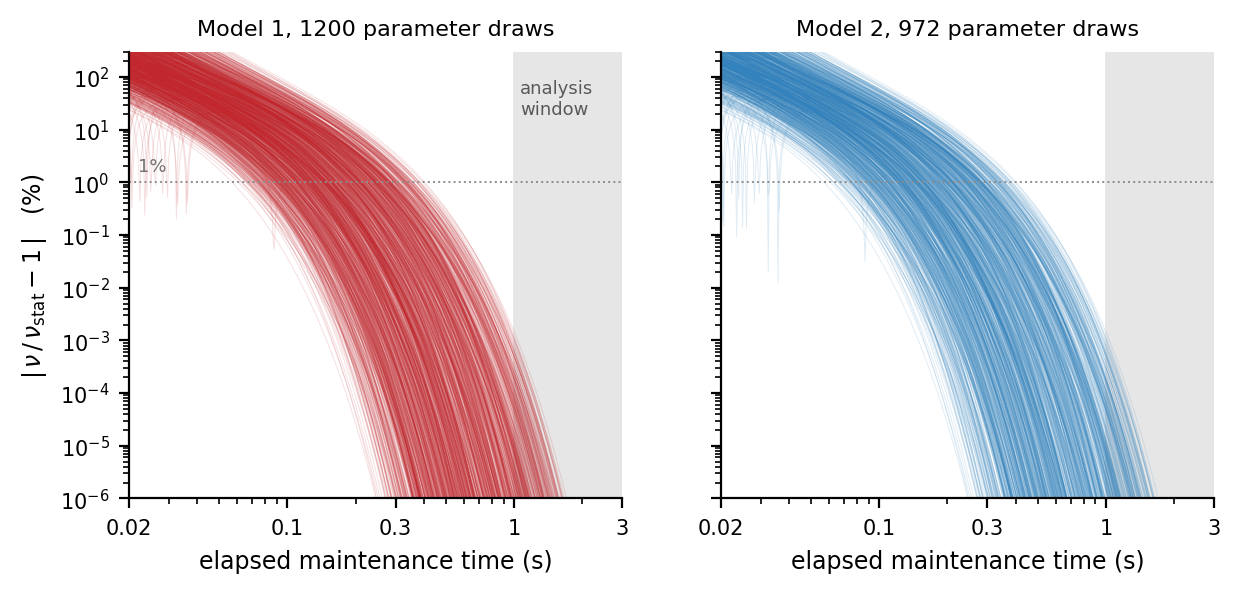
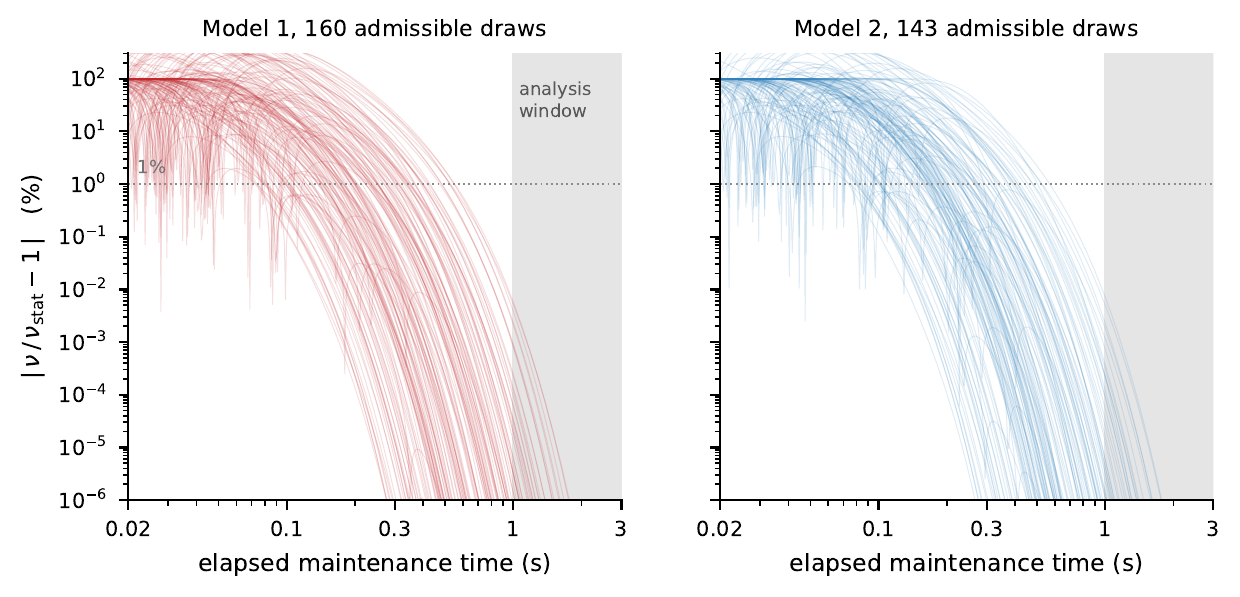
Fix the stationary-approximation figure, and prove the error bound it illustrates
scripts/mkfig.py computed the moments with s2 = 1/(2*kappa), which hard-codes
sigma_eps = 1 instead of using each draw's sampled SD_eps. Over the sampled
range that inflates sigma_H by one to two orders of magnitude and deflates the
standardized distance to the gate by the same factor - and the rate depends on
that distance through a Gaussian, so the error is amplified by a factor of
order a^2. The figure therefore understated the approximation error by four
orders of magnitude.

Corrected, and restricted to the admissible draws, which is where the model is
used: the largest departure inside the window is 6.8e-3 %, not 1.4e-3 %. The
conclusion is unchanged - on a delay rate of 0.7 s^-1 across a 2 s window,
7e-5 relative is a spurious trend of 2e-5 s^-2, against Model 1's largest
simulated trend of +0.007 and an observed +0.560. Over the whole sampled box
the departure reaches a per cent, on draws whose standardized distance to the
gate is 30 or more and whose rate is far too small to be measured at all;
admissibility caps that distance.

New Corollary A.2, after the stationary rate, states and proves the bound the
figure illustrates: with epsilon the largest of |u|, |v| and |X| sqrt(lambda/kappa),
|ln(nu/nu_stat)| <= (a+2)^2 epsilon. The proof is six lines - a log split into
three factors, plus the mean value theorem on the bracket, using that its two
partials are Phi <= 1 and phi <= phi(0) and that the bracket is at least
[…]

diff --git a/manuscript/latex/delay.tex b/manuscript/latex/delay.tex
@@ -726,7 +726,7 @@ In conclusion, delayed decision reports are not generated by storing an abstract
 
 \begin{center}\includegraphics[width=\linewidth]{figures/fig09.png}\end{center}
 
-\captionof{figure}{\new{\textbf{Error of the stationary approximation, over the whole sampled parameter domain.} Each thin line is one of the 1200 sampled parameter vectors: the relative difference between the exact partial-activation rate, Equation~\eqref{eq:nu2} with the transient moments of Equation~\eqref{eq:moments}, and its stationary form, Equation~\eqref{eq:nu_asymp}, as a function of elapsed maintenance time. Both axes are logarithmic and the shaded band is the delay analysis window, which begins at least 1 s after maintenance onset. Left, Model 1; right, Model 2, restricted to the vectors at which temporal preparation does not carry the signal past the gate within the window. Inside the window the largest departure anywhere in the domain is $1.4\times10^{-3}$\%, so every statement made at the stationary moments is exact for practical purposes on the window the data are analysed in.}}\label{fig:approx}
+\captionof{figure}{\new{\textbf{Error of the stationary approximation, over the admissible draws.} Each thin line is one admissible parameter vector: the relative difference between the exact partial-activation rate, Equation~\eqref{eq:nu2} with the transient moments of Equation~\eqref{eq:moments}, and its stationary form, Equation~\eqref{eq:nu_asymp}, as a function of elapsed maintenance time. Both axes are logarithmic and the shaded band is the delay analysis window, which begins at least 1 s after maintenance onset. Left, Model 1; right, Model 2, restricted to the vectors at which temporal preparation does not carry the signal past the gate within the window. Inside the window the largest departure is $6.8\times10^{-3}$\%, so every statement made at the stationary moments is exact for practical purposes on the window the data are analysed in. The draws shown are the admissible ones, which is where the model is used: over the whole sampled box the departure reaches a per cent, on vectors whose standardized distance to the gate is 30 or more and whose rate is accordingly unmeasurable (Appendix, Corollary~\ref{cor:approx}).}}\label{fig:approx}
 
 
 \section{Tables}
@@ -771,13 +771,14 @@ In conclusion, delayed decision reports are not generated by storing an abstract
 \end{center}
 \new{Note. The ranges are those sampled in the parameter-space evaluation, and their provenance is given there (Materials and Methods, Evaluation over the parameter space); entries without a range were held fixed. RS: response signal.}
 
-
-\section{\new{Appendix. The rate of partial muscle activations}}
-
 {\color{addcol}
+
+\section{Appendix. The rate of partial muscle activations}
+
 This appendix derives the instantaneous rate at which the maintained motor-preparatory signal crosses the gate upward, which is a partial muscle activation, and the properties of that rate which the Results test.
 
-\textbf{\emph{Setup and notation}}
+
+\subsection{Setup and notation}
 
 Notation follows Theory (Materials and Methods) and Table~\ref{tab:params}; $\varphi$ and $\Phi$ are the standard normal density and distribution function. Fix a trial that has entered maintenance at time $\tau $ with selected response ${s}_{\mathrm{resp}}$ and maintained level $m$ (Equation~\eqref{eq:m}), and write $\rho :=t-\tau $ for elapsed maintenance time. For $t\ge \tau $ let $y\left(t\right)=m+H\left(t\right)$, so that $H$ is the fluctuation of the motor-preparatory signal about the level it maintains. By Equations~\eqref{eq:epsilon} and~\eqref{eq:y_delay},
 
@@ -800,7 +801,7 @@ d\left(t\right)=g-\left|m\right|-\frac{\beta }{\delta }{\left(t-{t}_{\mathrm{off
 
 (the second term present only under temporal preparation, so that $\beta =0$ under Model 1), a partial activation on the selected channel begins exactly when ${s}_{\mathrm{resp}}H$ crosses $d\left(t\right)$ upward. Temporal preparation therefore carries the signal toward the gate at the constant speed $\beta /\delta$. The non-selected channel activates when ${s}_{\mathrm{resp}}H$ falls below the corresponding distance on the far side, which is several fluctuation standard deviations further away over the whole admissible space; the model predicts that channel to be silent, as it is observed to be, and it is not considered further.
 
-\textbf{\emph{The maintained fluctuation}}
+\subsection{The maintained fluctuation}
 
 Solving Equation~\eqref{eq:H} gives
 
@@ -862,7 +863,7 @@ and so does the third: applying the mean value theorem to $z\mapsto {e}^{-z\rho 
 
 Every mode of the transient therefore decays at least as fast as the filter gain $\lambda$, whatever $\kappa$ is: $\kappa$ appears in $\mu$, but only in the direction that makes the decay faster, since $\mu$ increases with $\kappa$ up to $2\lambda $. Maintenance begins no later than ${t}_{\mathrm{offset}}$ and the delay analysis window opens 1 s after it, so $\rho \ge 1$ s throughout that window at every parameter setting sampled, and every statement below is made at the stationary moments.
 
-\textbf{\emph{The crossing rate}}
+\subsection{The crossing rate}
 
 Let $Z\left(t\right):={s}_{\mathrm{resp}}H\left(t\right)-d\left(t\right)$, so that upcrossings of $d$ by ${s}_{\mathrm{resp}}H$ are upcrossings of zero by $Z$, and $\dot{Z}=\dot{H}+\beta /\delta$. Trajectories that reach the response criterion before the end of the delay are neglected; they are premature responses, excluded from the empirical analysis and held to a small fraction of trials by the admissibility screen. Since $H$ is almost surely continuously differentiable and $\left(Z,\dot{Z}\right)$ is jointly Gaussian and non-degenerate for $\rho >0$, the Kac--Rice formula gives the expected upcrossing rate \parencite[ch. 3]{azaisLevelSetsExtrema2009}:
 
@@ -904,7 +905,28 @@ for the distance to the gate in units of the fluctuation and for the characteris
 
 The bracket does not depend on the distance to the gate, and temporal preparation enters it only through $\beta /\delta$, the speed at which temporal preparation carries the signal toward the gate. The rate is thus a product of two factors: a Gaussian in the standardized distance to the gate, which is where the conditions and the time within the delay act, and a bracket fixed by the participant's own parameters.
 
-Proposition~\ref{prop:stationary} bounds the transient terms; what matters is the error they leave in the rate, and that can be computed rather than bounded. Over the whole sampled parameter domain and the whole analysis window, the exact rate, Equation~\eqref{eq:nu2} evaluated at the moments of Equation~\eqref{eq:moments}, departs from its stationary form, Equation~\eqref{eq:nu_asymp}, by at most $1.4\times {10}^{-5}$ in relative terms, under either model (Figure~\ref{fig:approx}).
+\begin{corollary}[error of the stationary rate]\label{cor:approx}
+Write the exact moments of Equation~\eqref{eq:moments} as ${\sigma }_{H}^{2}\left(\rho \right)={\sigma }_{H}^{2}\left(1+u\right)$ and ${\sigma }_{\dot{H}}^{2}\left(\rho \right)={\sigma }_{\dot{H}}^{2}\left(1+v\right)$, let ${\nu }_{\mathrm{stat}}$ denote Equation~\eqref{eq:nu_asymp}, and set
+\begin{equation*}
+\varepsilon :=\max \left(\left|u\right|,\ \left|v\right|,\ \left|X\right|\sqrt{\lambda /\kappa }\right).
+\end{equation*}
+If ${\left(a+2\right)}^{2}\varepsilon \le 1/5$ then
+\begin{equation*}
+\left|\ln \frac{\nu \left(\rho \right)}{{\nu }_{\mathrm{stat}}\left(\rho \right)}\right|\le {\left(a+2\right)}^{2}\varepsilon .
+\end{equation*}
+\end{corollary}
+
+\begin{proof}
+Write $g\left(m\right):=m\Phi \left(m\right)+\varphi \left(m\right)$, so that Equation~\eqref{eq:nu2} reads $\nu =\varphi \left({a}_{\rho }\right)B/{\sigma }_{H}\left(\rho \right)$ with ${a}_{\rho }:=d/{\sigma }_{H}\left(\rho \right)$ and $B:=\sqrt{S}\, g\left(M/\sqrt{S}\right)$, and ${\nu }_{\mathrm{stat}}$ is the same expression at $u=v=X=0$. Note $X\le 0$, so $M=\beta /\delta -\lambda Xd/\left(1+u\right)\ge 0$ and $g\ge g\left(0\right)=\varphi \left(0\right)$, while ${g}^{'}=\Phi \in \left(0,1\right]$. Throughout, $\varepsilon \le 1/5$ gives $1/\left(1-\varepsilon \right)\le 5/4$.
+
+Take the three factors in turn. Since ${a}_{\rho }^{2}={a}^{2}/\left(1+u\right)$, $\left|\ln \varphi \left({a}_{\rho }\right)/\varphi \left(a\right)\right|=\left({a}^{2}/2\right)\left|u\right|/\left(1+u\right)\le \tfrac{5}{8}{a}^{2}\varepsilon$, and $\left|\ln {\sigma }_{H}/{\sigma }_{H}\left(\rho \right)\right|=\tfrac{1}{2}\left|\ln \left(1+u\right)\right|\le \tfrac{5}{8}\varepsilon$.
+
+For the bracket, $\partial B/\partial M=\Phi \left(M/\sqrt{S}\right)\le 1$ and $\partial B/\partial \sqrt{S}=\varphi \left(M/\sqrt{S}\right)\le \varphi \left(0\right)$, so by the mean value theorem $\left|\Delta B\right|\le \left|\Delta M\right|+\varphi \left(0\right)\left|\Delta \sqrt{S}\right|$, and ${B}_{\mathrm{stat}}\ge {\sigma }_{\dot{H}}\varphi \left(0\right)$. Now $\lambda d/{\sigma }_{\dot{H}}=a\lambda /\omega =a\sqrt{\lambda /\kappa }$, so $\left|\Delta M\right|/{\sigma }_{\dot{H}}\le \tfrac{5}{4}a\varepsilon$; and $S/{\sigma }_{\dot{H}}^{2}=1+v-\left(\lambda /\kappa \right){X}^{2}/\left(1+u\right)$ with $\left(\lambda /\kappa \right){X}^{2}\le {\varepsilon }^{2}$, so $\left|\Delta \sqrt{S}\right|/{\sigma }_{\dot{H}}\le \left|S/{\sigma }_{\dot{H}}^{2}-1\right|\le \tfrac{5}{4}\varepsilon$. Hence $\left|\Delta B\right|/{B}_{\mathrm{stat}}\le \tfrac{5}{4}\sqrt{2\pi }a\varepsilon +\tfrac{5}{4}\varepsilon \le 1/4$, and $\left|\ln B/{B}_{\mathrm{stat}}\right|\le \tfrac{4}{3}\left|\Delta B\right|/{B}_{\mathrm{stat}}\le \tfrac{5}{3}\sqrt{2\pi }a\varepsilon +\tfrac{5}{3}\varepsilon$.
+
+Adding the three, $\left|\ln \nu /{\nu }_{\mathrm{stat}}\right|\le \left(\tfrac{5}{8}{a}^{2}+\tfrac{5}{3}\sqrt{2\pi }a+\tfrac{55}{24}\right)\varepsilon \le \left({a}^{2}+4a+4\right)\varepsilon$.
+\end{proof}
+
+The moment error is therefore amplified by the squared standardized distance to the gate: $a$ enters the rate through a Gaussian, so what the transient does to ${\sigma }_{H}$ it does to the rate $a^2/2$ times over. Proposition~\ref{prop:stationary} keeps $\varepsilon$ small --- below ${10}^{-4}$ everywhere in the window, over the admissible draws --- but the amplification is why the error has to be evaluated rather than assumed. Evaluated exactly, the largest relative departure of the exact rate, Equation~\eqref{eq:nu2} at the moments of Equation~\eqref{eq:moments}, from its stationary form, Equation~\eqref{eq:nu_asymp}, is $7\times {10}^{-5}$ over the admissible draws and the whole window, under either model (Figure~\ref{fig:approx}). Over the whole sampled box it reaches a per cent, on draws whose standardized distance to the gate is 30 or more and whose rate is therefore far too small to be measured at all; admissibility caps that distance, and with it the amplification.
 
 \begin{corollary}[under Model 1 the delay-period rate is constant]\label{cor:flat}
 Under Model 1, at every parameter setting and at every time in the delay analysis window,
@@ -986,6 +1008,7 @@ Finally, the activation that becomes the overt response is not a partial activat
 All three act in the same direction. What is derived above therefore bounds from above what either model can be measured to do on the delay-period trend, and the flatness of Corollary~\ref{cor:flat} is not an artefact of them.
 \end{remark}
 }
+
 
 
 \section{References}

diff --git a/scripts/mkfig.py b/scripts/mkfig.py
@@ -1,14 +1,19 @@
 """Appendix figure: how far the stationary rate is from the exact rate, over the
-sampled parameter domain.  Analytic -- no simulation needed.
+admissible draws.  Analytic -- no simulation needed.
 
 The comparison is between the rate computed from the EXACT second-order moments of the
 maintained fluctuation, transient included, and the rate computed from their stationary
 limits.  Both use the stationary start for the maintenance noise, which is what makes the
 comparison worth drawing: the transient then decays at a rate of at least the filter gain
-lambda, so by the time the analysis window opens, 1 s after stimulus offset, the two
-agree to well under a millionth.  Started instead from zero the fluctuation would carry a
-third mode decaying at 2*kappa, as slow as 0.4 /s over the sampled range, and the window
-would sit inside the transient rather than after it.
+lambda, so by the time the analysis window opens, 1 s after stimulus offset, it is spent.
+Started instead from zero the fluctuation would carry a third mode decaying at 2*kappa,
+as slow as 0.4 /s over the sampled range, and the window would sit inside the transient
+rather than after it.
+
+Restricted to the admissible draws, which is where the model is used.  Over the whole
+sampled box the error reaches a per cent, on draws whose standardized distance to the
+gate is 30 or more and whose rate is therefore unmeasurable; admissibility caps that
+distance, and with it the amplification (Appendix, Corollary A.2).
 
 Writes plots/fig_approx_error.{pdf,png}.  Usage: python3 mkfig.py [DUMP.jsonl]
 """
@@ -23,21 +28,30 @@ plt.rcParams.update({'font.size': 8, 'axes.labelsize': 8.5, 'legend.fontsize': 7
 Phi, phi = norm.cdf, norm.pdf
 C_M1, C_M2 = '#c1272d', '#3182bd'
 
-def moments(r, l, k):
-    """Warm-start second-order moments of H:  sigma_H^2, c_H, sigma_Hdot^2."""
-    s2 = 1/(2*k); Ai = l*s2/(k+l); Bi = l**2*s2*k/(k+l)
+def moments(r, l, k, s2):
+    """Warm-start second-order moments of H:  sigma_H^2, c_H, sigma_Hdot^2.
+
+    s2 is SD_eps**2, the STATIONARY variance of the maintenance fluctuation, which is
+    what the sweep samples.  It does not cancel from the ratio this figure plots: it
+    sets sigma_H, hence the standardized distance to the gate a = d/sigma_H, and the
+    rate depends on a through a Gaussian, so the error is amplified by a factor of
+    order a^2.  Hard-coding sigma_eps = 1 here (s2 = 1/(2k), as an earlier version did)
+    inflates sigma_H by one to two orders of magnitude over the sampled range, deflates
+    a by the same factor, and understates the error by four orders of magnitude.
+    """
+    Ai = l*s2/(k+l); Bi = l**2*s2*k/(k+l)
     E1, E2 = np.exp(-(l+k)*r), np.exp(-2*l*r)
     X = (l+k)*(E2-E1)/(l-k) if abs(l-k) > 1e-12 else -2*l*r*E2
     return Ai*(1+X-E1), -l*X*Ai, Bi*(1+(l/k)*(X+E1)), Ai, Bi
 
-def rate(r, l, k, bd, d):
-    A, cH, B, _, _ = moments(r, l, k); sH = np.sqrt(A)
+def rate(r, l, k, s2, bd, d):
+    A, cH, B, _, _ = moments(r, l, k, s2); sH = np.sqrt(A)
     M = bd + cH/A*d; S = np.where(B - cH**2/A > 0, B - cH**2/A, np.nan)
     u = M/np.sqrt(S)
     return phi(d/sH)/sH*(M*Phi(u) + np.sqrt(S)*phi(u))
 
-def rate_stat(l, k, bd, d):
-    s2 = 1/(2*k); Ai = l*s2/(k+l); Bi = l**2*s2*k/(k+l); us = bd/np.sqrt(Bi)
+def rate_stat(l, k, s2, bd, d):
+    Ai = l*s2/(k+l); Bi = l**2*s2*k/(k+l); us = bd/np.sqrt(Bi)
     return phi(d/np.sqrt(Ai))/np.sqrt(Ai)*(bd*Phi(us) + np.sqrt(Bi)*phi(us))
 
 import sys, os
@@ -49,13 +63,14 @@ for ax, mod, col, nm in [(axes[0], 'model1', C_M1, 'Model 1'),
     n, worst = 0, 0.0
     for line in open(DUMP):
         j = json.loads(line); p = j['params']
-        l, k = p['lam'], p['kappa']
+        if not j[mod]['admissible']: continue
+        l, k, s2 = p['lam'], p['kappa'], p['SDe']**2
         beta = j['beta'] if mod == 'model2' else 0.0
         bd = beta/(3.0 + p['LRS'] - p['Lmotion'])
         d = (p['g'] - p['theta']) - bd*rho
         if np.any(d <= 0): continue
         with np.errstate(all='ignore'):
-            e = np.abs(rate(rho, l, k, bd, d)/rate_stat(l, k, bd, d) - 1)
+            e = np.abs(rate(rho, l, k, s2, bd, d)/rate_stat(l, k, s2, bd, d) - 1)
         if not np.all(np.isfinite(e)): continue
         ax.plot(rho, np.maximum(100*e, 1e-7), color=col, lw=.35, alpha=.15, zorder=1)
         n += 1; worst = max(worst, e[rho >= 1.0].max())
@@ -64,7 +79,7 @@ for ax, mod, col, nm in [(axes[0], 'model1', C_M1, 'Model 1'),
     ax.set_xlim(0.02, 3); ax.set_ylim(1e-6, 300)
     ax.axhline(1.0, color='0.55', lw=.7, ls=':', zorder=2)
     ax.set_xlabel('elapsed maintenance time (s)')
-    ax.set_title(f'{nm}, {n} parameter draws', fontsize=8)
+    ax.set_title(f'{nm}, {n} admissible draws', fontsize=8)
     ax.set_xticks([0.02, 0.1, 0.3, 1, 3]); ax.set_xticklabels(['0.02','0.1','0.3','1','3'])
     print(f'{nm}: n={n}, largest error inside the window = {100*worst:.2e} %')
 axes[0].set_ylabel(r'$|\,\nu\,/\,\nu_{\rm stat}-1\,|$   (%)')

diff --git a/manuscript/response_letter_2026-09-08.md b/manuscript/response_letter_2026-09-08.md
@@ -28,9 +28,11 @@ Ce document est un brouillon complet de la lettre de réponse, point par point. 
 
 -   **Un effet discriminant de plus.** La duration-dépendance de la rampe en fenêtre stimulus : Model 1 la produit à l'envers à 94 % de ses tirages et jamais dans le bon sens, Model 2 dans le bon sens à 37 %. La fenêtre stimulus exclut donc Model 1 deux fois, sur le niveau et sur la rampe. Ajouté à C2.1.
 
--   **Fuite : vérification rejouée.** Les nombres cités en C2.3 sont ceux de la campagne chaude (160 → 155 → 152 → 138 pour Model 1 ; 145 → 143 → 142 → 130 pour Model 2 ; « les six pentes positives » : 78 → 76 → 71 → 77 pour Model 2, **0 à tous les taux** pour Model 1). Contrairement à ce qu'indiquait la note du 5 septembre, l'argument **est** maintenant dans l'article : Remarque A.5 de l'annexe le démontre structurellement, et un paragraphe des Résultats le résume.
+-   **Fuite : vérification rejouée.** Les nombres cités en C2.3 sont ceux de la campagne chaude (160 → 155 → 152 → 138 pour Model 1 ; 145 → 143 → 142 → 130 pour Model 2 ; « les six pentes positives » : 78 → 76 → 71 → 77 pour Model 2, **0 à tous les taux** pour Model 1). Contrairement à ce qu'indiquait la note du 5 septembre, l'argument **est** maintenant dans l'article : Remarque A.6 de l'annexe le démontre structurellement, et un paragraphe des Résultats le résume.
 
--   **Figures et annexe.** Sept figures principales : 1 dynamiques simulées, 2 design + essai unique, 3 comportement, 4 taux de PMA et EEG, 5 forme de la courbe de taux pendant le délai, 6 tailles d'effet (22 panneaux, groupés par fenêtre), 7 erreur de l'approximation stationnaire. L'annexe unique va de la **Proposition A.1** à la **Remarque A.6** (A.1 régime stationnaire, A.2 platitude sous Model 1, A.3 rampe et parabole sous Model 2, A.4 effet de durée en fenêtre stimulus, A.5 fuite, A.6 portée des approximations). Les tables supplémentaires sont S1 (comportement), S2 (taux de PMA), S3 (LRP), S4 (MBL), S5 (MBL, moitiés du stimulus).
+-   **Correction de la Figure 7 (8 septembre).** `scripts/mkfig.py` fixait $\sigma_\varepsilon = 1$ au lieu d'utiliser le SD_ε de chaque tirage, ce qui gonflait $\sigma_H$ d'un à deux ordres de grandeur, réduisait d'autant la distance standardisée à la porte, et sous-estimait l'erreur de l'approximation stationnaire de quatre ordres de grandeur. Corrigé : l'écart maximal sur la fenêtre est **6,8 × 10⁻³ %** (et non 1,4 × 10⁻³ %) sur les tirages admissibles, qui sont désormais les seuls tracés. La conclusion ne bouge pas — c'est toujours négligeable — mais la nouvelle **Corollaire A.2** dit pourquoi il fallait le calculer : l'erreur sur les moments est amplifiée par le carré de la distance standardisée à la porte, parce que celle-ci entre dans le taux par une gaussienne. Sur la boîte entière (tirages non admissibles compris) l'écart atteint le pour cent.
+
+-   **Figures et annexe.** Sept figures principales : 1 dynamiques simulées, 2 design + essai unique, 3 comportement, 4 taux de PMA et EEG, 5 forme de la courbe de taux pendant le délai, 6 tailles d'effet (22 panneaux, groupés par fenêtre), 7 erreur de l'approximation stationnaire. L'annexe unique va de la **Proposition A.1** à la **Remarque A.7** (A.1 régime stationnaire, A.2 erreur de l'approximation stationnaire sur le taux, A.3 platitude sous Model 1, A.4 rampe et parabole sous Model 2, A.5 effet de durée en fenêtre stimulus, A.6 fuite, A.7 portée des approximations). Les tables supplémentaires sont S1 (comportement), S2 (taux de PMA), S3 (LRP), S4 (MBL), S5 (MBL, moitiés du stimulus).
 
 Tout le reste des commentaires C1.1–C1.9, C2.1–C2.7, la note éditoriale et les points volontaires est traité intégralement dans le manuscrit, vérifié passage par passage contre le texte courant de `delay.tex`.
 
@@ -42,7 +44,7 @@ Tout le reste des commentaires C1.1–C1.9, C2.1–C2.7, la note éditoriale et 
 
 **Response.** We agree that the earlier phrasing overstated what an omnibus ANOVA on a nineteen-degree-of-freedom time-bin factor establishes, and have gone beyond correcting the language. We now decompose the time-bin factor into orthogonal polynomial contrasts — the standard within-subjects contrast analysis — and report those as the primary statistics in the Results text for every measure and period where the decomposition applies (stimulus- and delay-period bins for partial-activation rate, mu–beta lateralization and the lateralized readiness potential); Tables S1–S4 report them as primary as well. The linear contrast is reported throughout as the ordinary-least-squares slope against time, in units of the measure per second, which is the same contrast rescaled so that the coefficient reads as a rate of change. Where a period has at least three bins the quadratic contrast is reported alongside it, for two reasons: it is where the two candidate models make opposite and exact predictions about the delay period (see C1.8), and mu–beta lateralization during the stimulus period is non-monotone, so a slope alone would misclassify it as null. Each contrast is tested against its own error term rather than against an error term pooled across components, which is what makes a sphericity correction unnecessary for the time-bin component; Greenhouse–Geisser correction is applied throughout to the three-level coherence factor. No signal was reprocessed: the contrasts are weighted sums of the bin means already computed. We should add that the omnibus time-bin test the comment objects to is not merely uninformative about slope but poorly behaved here in its own right — its Greenhouse–Geisser epsilon is 0.14 on 19 degrees of freedom. The analysis script that produces the tables is deposited with the data. Two periods need no substitution: the response-signal period has only two time bins, so the omnibus and linear-trend tests coincide exactly, and the response period is analyzed on a single bin, so no trend decomposition applies there.
 
-For the partial-activation rate, the contrasts are taken on the rate itself and not on its logarithm, and this deserves a word, since the theory is naturally written on the logarithm — where the delay-period prediction is exactly a downward parabola of constant curvature (Appendix, Corollary A.3). The logarithm is undefined wherever a cell contains no activation, which is the case in 6% of the participant × condition × bin cells of the delay period, 30% of those of the stimulus period and 55% of those of the response-signal period; deleting or offsetting those cells would change the estimand by an amount that depends on the rate, which is the quantity under test. Nothing is lost by working on the rate: dividing its linear and quadratic contrasts by its level returns the relative slope and relative curvature that contrasts on the logarithm estimate, and the Results use exactly those two ratios to recover the two quantities of the delay-period theory without fitting anything (see C1.8).
+For the partial-activation rate, the contrasts are taken on the rate itself and not on its logarithm, and this deserves a word, since the theory is naturally written on the logarithm — where the delay-period prediction is exactly a downward parabola of constant curvature (Appendix, Corollary A.4). The logarithm is undefined wherever a cell contains no activation, which is the case in 6% of the participant × condition × bin cells of the delay period, 30% of those of the stimulus period and 55% of those of the response-signal period; deleting or offsetting those cells would change the estimand by an amount that depends on the rate, which is the quantity under test. Nothing is lost by working on the rate: dividing its linear and quadratic contrasts by its level returns the relative slope and relative curvature that contrasts on the logarithm estimate, and the Results use exactly those two ratios to recover the two quantities of the delay-period theory without fitting anything (see C1.8).
 
 Two consequences of the change of criterion are worth stating explicitly rather than leaving to be discovered, and they run in opposite directions. Mu–beta lateralization's stimulus-period coherence × time effect is significant on the omnibus test but null as a full-window linear trend (p = .596), because the measure rises over roughly the first second and then flattens; Results now says so, and an a priori first-half/second-half split (Table S5) locates the coherence-dependent trend in the first half. Conversely, mu–beta lateralization's stimulus-period duration × time effect was not significant on the omnibus test (p = .136) but is significant as a linear trend (p = .046) — a newly significant effect created by the change of criterion. Both are stated in the Results text and reported in full in Table S4.
 
@@ -110,13 +112,13 @@ The first is derivation. Every prediction the paper tests is derived from the mo
 
 The second stage is an evaluation over the models' parameter space, which supplies what a derivation cannot, namely the size of each effect. We do not fit. No parameter is estimated from these data, no parameter value is interpreted, and no comparison between the models rests on a goodness-of-fit statistic. Fitting would be the wrong instrument here for three reasons, which the Discussion states: the models are deliberately reduced, so several parameters are close to unidentifiable from behavior and a fitted value would describe the objective's shape rather than a participant; Model 2 contains Model 1 as the special case β = 0, so a better fit for Model 2 is guaranteed and therefore uninformative; and the predictions the paper tests are ordinal, so nothing about them turns on which setting is optimal. What we do instead is sample the parameter space — 1200 Latin-hypercube draws over the ranges of Table 1, 4000 trials per cell per model per draw — screen those draws against behavioral admissibility criteria stated in Materials and Methods (160 draws admissible for Model 1, 145 for Model 2), and report, for every effect, the range of magnitudes each model can produce over its admissible draws and the fraction of draws at which it produces the observed sign. The observed value and its between-participant interval are read against that range (Figure 6).
 
-The result is that behavior does not separate the two models and the muscle does. Every behavioral effect falls inside both models' ranges, and the two ranges are barely distinguishable from one another — the expected consequence of the derivation above. The delay period separates them, and not by a matter of degree. Because the maintenance fluctuation starts at its stationary amplitude, Model 1's delay-period rate is exactly constant in time: every linear and quadratic contrast of it across the window is zero, at every value of the mean-reversion rate, of the filter gain and of the maintained level (Appendix, Corollary A.2). Over the whole sampled parameter domain the largest departure from flatness the closed-form rate returns is 3 × 10⁻¹¹ s⁻², against an observed linear trend of +0.560 s⁻². The simulations agree: over Model 1's 160 admissible draws the trend has a median of −0.007 s⁻², a 5th-to-95th-percentile range of −0.058 to +0.004, and a largest value of +0.007 — a seventy-fifth of the observation, and itself Monte-Carlo noise, since the Monte-Carlo standard deviation of one draw's trend is 0.0035 s⁻² and re-simulating the seven most promising draws at ten times the trial count leaves the largest at +0.0007 s⁻². Model 2's median is +0.054, its 5th-to-95th-percentile range −0.017 to +0.418, and the observation falls at the 96th percentile of that distribution. Seventy-eight of Model 2's 145 admissible draws produce all six condition trends significantly positive; none of Model 1's 160 do, at any parameter setting, and none at any leak rate either (see C2.3).
+The result is that behavior does not separate the two models and the muscle does. Every behavioral effect falls inside both models' ranges, and the two ranges are barely distinguishable from one another — the expected consequence of the derivation above. The delay period separates them, and not by a matter of degree. Because the maintenance fluctuation starts at its stationary amplitude, Model 1's delay-period rate is exactly constant in time: every linear and quadratic contrast of it across the window is zero, at every value of the mean-reversion rate, of the filter gain and of the maintained level (Appendix, Corollary A.3). Over the whole sampled parameter domain the largest departure from flatness the closed-form rate returns is 3 × 10⁻¹¹ s⁻², against an observed linear trend of +0.560 s⁻². The simulations agree: over Model 1's 160 admissible draws the trend has a median of −0.007 s⁻², a 5th-to-95th-percentile range of −0.058 to +0.004, and a largest value of +0.007 — a seventy-fifth of the observation, and itself Monte-Carlo noise, since the Monte-Carlo standard deviation of one draw's trend is 0.0035 s⁻² and re-simulating the seven most promising draws at ten times the trial count leaves the largest at +0.0007 s⁻². Model 2's median is +0.054, its 5th-to-95th-percentile range −0.017 to +0.418, and the observation falls at the 96th percentile of that distribution. Seventy-eight of Model 2's 145 admissible draws produce all six condition trends significantly positive; none of Model 1's 160 do, at any parameter setting, and none at any leak rate either (see C2.3).
 
 The shape of the ramp gives a second, independent test in the same window, and one on which the two models make opposite exact predictions. Under Model 1 a constant rate has zero curvature as well as zero trend. Under Model 2 the rate is convex wherever the maintained level stands more than one fluctuation standard deviation from the gate. The observed quadratic contrast is +0.210 s⁻³ (F(1,21) = 18.891, p < .001), and neither factor modulates it (all p > .17), as the theory requires, since the curvature depends on properties of the participant and not of the condition.
 
 Read the other way, the same three numbers turn the delay-period profile into parameter values without any fitting, which we think is the strongest form of the answer to this comment. Writing a for the standardized distance from the maintained level to the gate and b for the speed at which temporal preparation closes it, the theory gives ν̇/ν = b·a and ν̈/ν = b²(a² − 1): two equations in two unknowns. The observed level, trend and curvature (0.709 s⁻¹, +0.560 s⁻², +0.210 s⁻³) give a = 1.38 [1.28, 1.50] and b = 0.57 [0.47, 0.68] s⁻¹, the brackets being 95% percentile intervals from 10,000 bootstrap resamples over participants. Two things follow, and both are checks rather than descriptions. A solution exists only if b² = (ν̇/ν)² − ν̈/ν is positive, a constraint on the data that could have failed and does not, in any of the 10,000 resamples. And a > 1 is exactly the condition under which the model predicts a positive curvature, so the sign of the observed curvature and the value of a are the same statement, and the estimate lands on the right side of 1 with its whole interval clear of it.
 
-*Manuscript location*: Results, the "Theoretical predictions" subsection of each window (the derivations, stated where they are used); Appendix, Proposition A.1 to Remark A.6 (the proofs); Materials and Methods, "Evaluation over the parameter space"; Results, the "Simulation validation" subsections, and Stimulus-offset-locked > Empirical results > The shape of the ramp (the inversion); Figures 5–7; Discussion, the two paragraphs on what the modeling does and does not establish.
+*Manuscript location*: Results, the "Theoretical predictions" subsection of each window (the derivations, stated where they are used); Appendix, Proposition A.1 to Remark A.7 (the proofs); Materials and Methods, "Evaluation over the parameter space"; Results, the "Simulation validation" subsections, and Stimulus-offset-locked > Empirical results > The shape of the ramp (the inversion); Figures 5–7; Discussion, the two paragraphs on what the modeling does and does not establish.
 
 ## C1.9 — Statistics in the text.
 
@@ -142,11 +144,11 @@ On four effects the evaluation is the substance of the answer rather than a conf
 
 Two of them are in the stimulus-onset window, and both exclude Model 1 there — before the delay period is reached at all. The duration effect on the level of the partial-activation rate is +0.057 ± 0.015 s⁻¹ in the data; Model 1 produces the opposite sign at 96% of its admissible draws and the observed sign at none. The duration-dependence of the ramp within that same window repeats the split exactly: observed at +0.060 s⁻², Model 1 gets it backwards at 94% of its draws and right at none, against 37% for Model 2. Both follow from the same structural fact — Model 1's only source of duration dependence in that window is the extra evidence and the extra variance the long stimulus has accumulated, which push the rate up after the long stimulus, whereas the data show it higher after the short one.
 
-The third is the delay-period trend, which is where the models are furthest apart: Model 1's is exactly zero at every parameter setting (Corollary A.2), 78 of Model 2's 145 admissible draws produce all six condition trends significantly positive, and 0 of Model 1's 160 do. The curvature says the same thing a second time, on a statistic Model 1 also fixes at zero (see C1.8).
+The third is the delay-period trend, which is where the models are furthest apart: Model 1's is exactly zero at every parameter setting (Corollary A.3), 78 of Model 2's 145 admissible draws produce all six condition trends significantly positive, and 0 of Model 1's 160 do. The curvature says the same thing a second time, on a statistic Model 1 also fixes at zero (see C1.8).
 
 The fourth runs the other way, and we report it as such: on the coherence × duration interaction on delay-period rate both models are wrong. It is +0.107 ± 0.051 s⁻¹ in the data, and runs in the observed direction at 3% of Model 1's admissible draws and 5% of Model 2's, against the opposite direction at 88% and 86%. We report that as a disagreement between the model and the data rather than as a parameter choice some other setting would repair, and the Discussion says so. It also resolves a tension the original submission carried without remarking on it: coherence-related differences in the maintained level were said to shrink after a long stimulus in the Results, for PMET and RT, and to grow after a long stimulus in the Discussion, for delay-period rate. The saturation of the maintained level predicts the first. The second no longer appears: the manuscript now treats that interaction as a limitation of the model, and does not use it to argue for either version.
 
-We have also tried to be exact about the scope of each derivation. Some results are exact (accuracy is exactly one half at zero coherence whatever the duration; the final response-locked bin is empty by definition; Model 1's delay-period rate is exactly constant). The saturation result is conditional, and we state the condition. And the delay-period derivation itself is stated with the three idealizations that separate the computed rate from the measured one — merging of crossings closer together than 25 ms, absorption at the response criterion, and exclusion of the response-producing burst from the count — all three of which act in the same direction, so that what is derived bounds from above what either model can be measured to do on the trend (Appendix, Remark A.6). After the response signal the criterion becomes an absorbing barrier and the Gaussian structure the delay-period derivation relies on is destroyed, so that window is constrained through the two components of response time rather than through a closed-form rate; we say so rather than implying more.
+We have also tried to be exact about the scope of each derivation. Some results are exact (accuracy is exactly one half at zero coherence whatever the duration; the final response-locked bin is empty by definition; Model 1's delay-period rate is exactly constant). The saturation result is conditional, and we state the condition. And the delay-period derivation itself is stated with the three idealizations that separate the computed rate from the measured one — merging of crossings closer together than 25 ms, absorption at the response criterion, and exclusion of the response-producing burst from the count — all three of which act in the same direction, so that what is derived bounds from above what either model can be measured to do on the trend (Appendix, Remark A.7). After the response signal the criterion becomes an absorbing barrier and the Gaussian structure the delay-period derivation relies on is destroyed, so that window is constrained through the two components of response time rather than through a closed-form rate; we say so rather than implying more.
 
 *Manuscript location*: Figure 1; Results, the "Theoretical predictions" and "Simulation validation" subsections of each window; Appendix; Materials and Methods, "Evaluation over the parameter space"; Figures 5–7.
 
@@ -166,13 +168,13 @@ We have also tried to be exact about the scope of each derivation. Some results 
 
 Structurally, adding a leak to the decision variable changes none of the derivations, since none of them uses leak-freeness. Three are worth spelling out. Discriminability at the end of a stimulus of length t is, under a leaky accumulator with leak γ, equal to (kc/σ)√(2/γ)·√(u/(2−u)) with u = 1 − e^(−γt); this increases in coherence, increases in duration through u, is exactly one half at c = 0 by symmetry, and reduces to kc√t/σ as γ → 0. So the accuracy predictions are leak-proof at any leak rate. The response-time predictions require only that the drift of the second accumulation be the same in every condition (Equation 9), so that coherence and duration act on response time through the maintained level alone, and that the maintained level be capped at the internal threshold (Equation 4); a leak alters the mapping from coherence to the maintained level but leaves both properties intact.
 
-The delay-period results are untouched for a third and stronger reason, which the manuscript now states as an appendix result of its own (Remark A.5). A leak acts only before maintenance begins. It changes the law of the accumulated evidence, hence the law of the threshold-crossing time and of the maintained level, and therefore the distribution across trials of the standardized distance from that level to the gate. It does not appear in the maintenance dynamics: from maintenance onset the input to the filter is the maintained level plus the Ornstein–Uhlenbeck fluctuation, and neither depends on how the accumulation arrived. The fluctuation, its moments and the crossing rate are therefore exactly as derived, at any leak rate. Corollary A.2 is thus invariant: under Model 1 the delay-period rate is constant in time on every trial and at every parameter setting, for every γ. A leak can move the level of that rate; it cannot give it a time dependence, and so it is not a route by which Model 1 could acquire a delay-period ramp.
+The delay-period results are untouched for a third and stronger reason, which the manuscript now states as an appendix result of its own (Remark A.6). A leak acts only before maintenance begins. It changes the law of the accumulated evidence, hence the law of the threshold-crossing time and of the maintained level, and therefore the distribution across trials of the standardized distance from that level to the gate. It does not appear in the maintenance dynamics: from maintenance onset the input to the filter is the maintained level plus the Ornstein–Uhlenbeck fluctuation, and neither depends on how the accumulation arrived. The fluctuation, its moments and the crossing rate are therefore exactly as derived, at any leak rate. Corollary A.3 is thus invariant: under Model 1 the delay-period rate is constant in time on every trial and at every parameter setting, for every γ. A leak can move the level of that rate; it cannot give it a time dependence, and so it is not a route by which Model 1 could acquire a delay-period ramp.
 
 Numerically, we re-ran the parameter-space evaluation at leak rates of 0.25, 0.50 and 1.00 s⁻¹ on the decision variable, over exactly the draws admissible at zero leak and with the same parameter vectors and the same 4000 trials per cell. Nothing directional moves. Model 2 produces all six delay-period condition trends significantly positive at 76, 71 and 77 draws, against 78 at zero leak; Model 1 does so at none of its draws, at any leak rate, as at zero leak. The coherence and the duration effect on response time keep the observed sign at 136 to 138 of Model 2's 145 evaluated draws at every leak rate, against 136 at zero leak. What does erode, mildly, is admissibility itself: 160 of Model 1's draws and 145 of Model 2's are admissible at zero leak, and 138 and 130 at the largest leak. The draws that drop out are those with the smallest ratio of drift to threshold, kc/θ — median 5.4 among the fifteen Model 1 draws lost at γ = 1 s⁻¹, against 7.8 among those kept — which is what the mechanism predicts: a leak caps the accumulator at kc/γ, and once that asymptote approaches θ the threshold stops being reached. That ratio is the criterion for when a leak can matter at all, and over the admissible draws its smallest value at 50% coherence is 1.5 s⁻¹, above the largest rate we tested.
 
 It is worth adding, as the reviewer implicitly does, that the models already contain a first-order filter between accumulator and muscle, which is a leak on the transmitted signal, and an Ornstein–Uhlenbeck process during the delay, which is mean-reversion of the maintenance fluctuation. Neither is what the comment asks for. The leak on the decision variable itself is the one addressed above.
 
-*Manuscript location*: Appendix, Remark A.5 (the structural argument, with the simulation result stated in one sentence); Results, Stimulus-offset-locked > Simulation validation (the same, in the Results); Materials and Methods, Theory (Equations 1–8) and Results, the "Theoretical predictions" subsections, none of which uses leak-freeness. The per-leak-rate counts are reported here rather than in the manuscript; the code and the output are in the deposited archive (`scripts/leak_sweep.py`, `scripts/results/leak/`).
+*Manuscript location*: Appendix, Remark A.6 (the structural argument, with the simulation result stated in one sentence); Results, Stimulus-offset-locked > Simulation validation (the same, in the Results); Materials and Methods, Theory (Equations 1–8) and Results, the "Theoretical predictions" subsections, none of which uses leak-freeness. The per-leak-rate counts are reported here rather than in the manuscript; the code and the output are in the deposited archive (`scripts/leak_sweep.py`, `scripts/results/leak/`).
 
 ## C2.4 — What is accumulated in the second phase.
 
